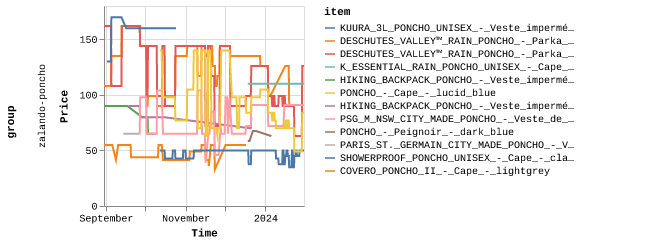
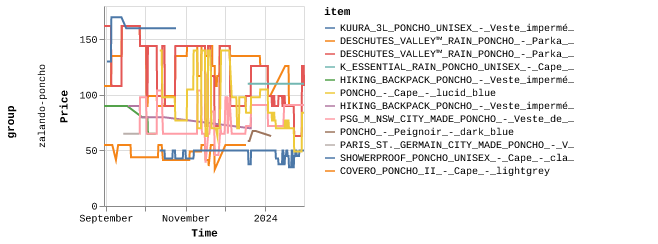
Latest scraping prices: Tue Jan 30 16:50:24 UTC 2024

diff --git a/scrapes/prices/zalando-poncho-DESCHUTES_VALLEY™_RAIN_PONCHO_-_Parka_-_vista_blue.md b/scrapes/prices/zalando-poncho-DESCHUTES_VALLEY™_RAIN_PONCHO_-_Parka_-_vista_blue.md
@@ -1,3 +1,3 @@
-12595
+10795
 
 [Source](https://fr.zalando.be/homme/?q=poncho+imperm%C3%A9able&sold_by_zalando=true)
